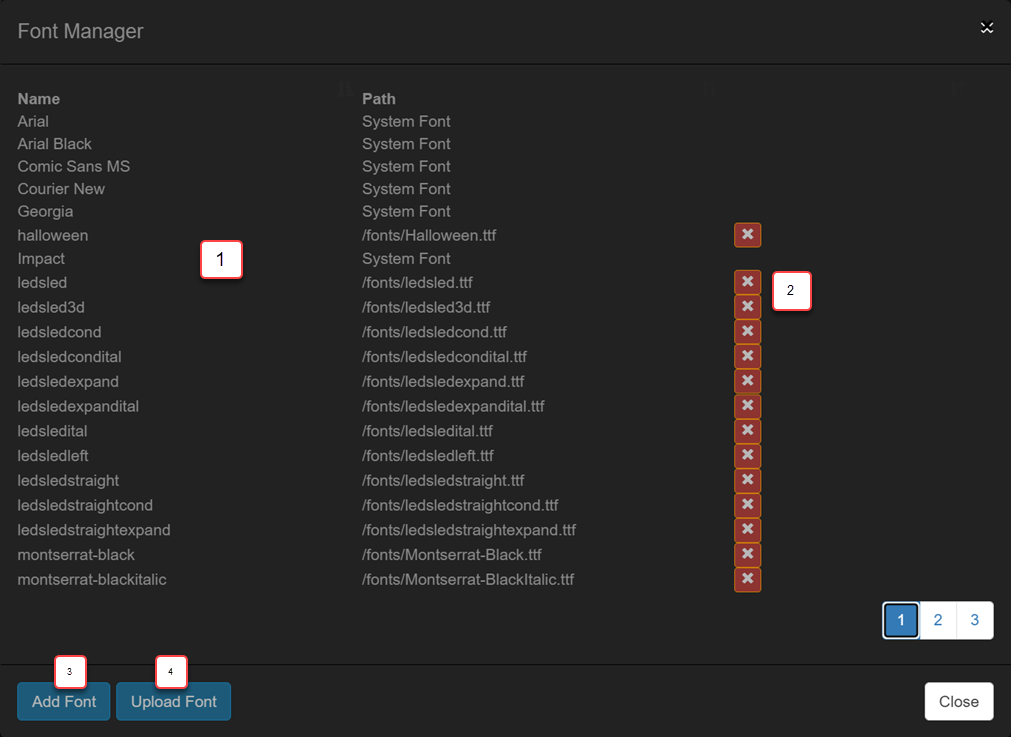
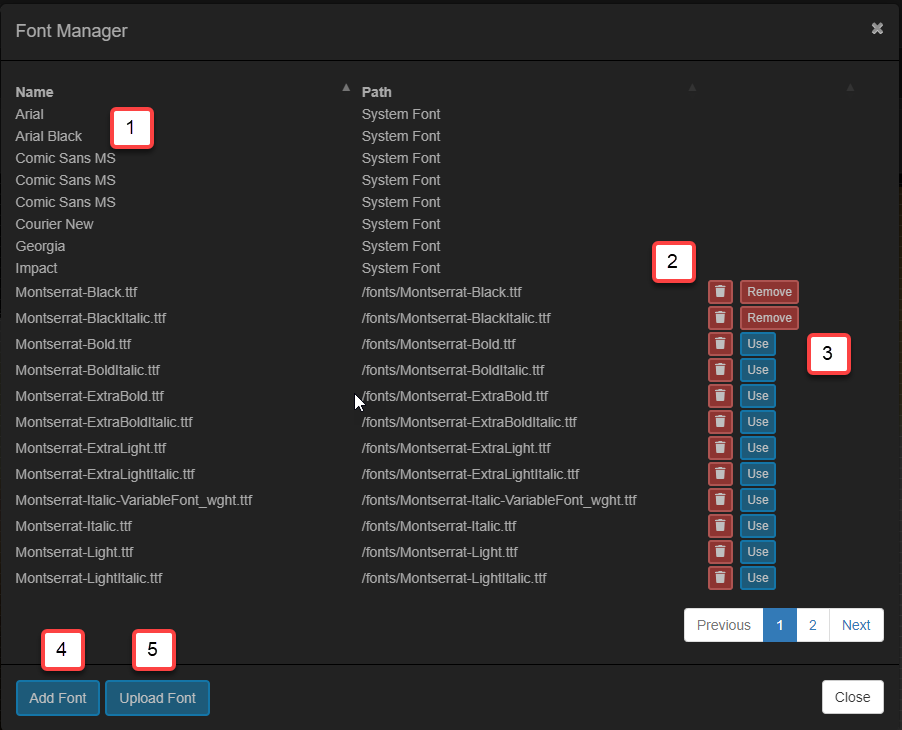
Doc updates

diff --git a/html/documentation/overlays/overlays.html b/html/documentation/overlays/overlays.html
@@ -1293,35 +1293,36 @@
 								</tr>
 								<tr>
 									<td>
-										<ul>
-											<li><span class="moduleToolbarIconNumber">1</span>
-												<strong>Installed Fonts</strong> - Lists all the fonts that can be
-												used.
-												System Fonts are marked as such in the <strong>Path</strong> column.
-											</li>
-											<li><span class="moduleToolbarIconNumber">2</span>
-												<strong>Delete Button</strong> - Deletes a font.
-												<blockquote>It is not possible to delete a System Font and they
-													will not have a delete icon as shown for the first several fonts
-													above.
-												</blockquote>
-												<blockquote>If a font is in use when deleted then any
-													fields using the font will revert to the default font as
-													specified in the overlay settings.
-												</blockquote>
-											</li>
-											<li><span class="moduleToolbarIconNumber">3</span>
-												The <span class="btn btn-primary btn-small">Add Font</span>
-												button adds a font from
-												<a external="true" href="https://daFont.com">daFont.com</a> by entering a URL.
-												See <a href="#dafont">below</a>.
-											</li>
-											<li><span class="moduleToolbarIconNumber">4</span>
-												The <span class="btn btn-primary btn-small">Upload Font</span> button
-												uploads a zip file to install fonts.
-												See <a href="#zip">below</a>.
-											</li>
-										</ul>
+
+										<p><span class="moduleToolbarIconNumber">1</span>
+											<strong>Installed Fonts</strong> - Lists all the fonts that can be used. System Fonts are marked as such in the <strong>Path</strong> column.
+										</p>
+										<p><span class="moduleToolbarIconNumber">2</span>
+											<strong>Delete Button</strong> - Deletes a font.
+											<blockquote>It is not possible to delete a System Font and they
+												will not have a delete icon as shown for the first several fonts
+												above.
+											</blockquote>
+											<blockquote>If a font is in use when deleted then any
+												fields using the font will revert to the default font as
+												specified in the overlay settings.
+											</blockquote>
+										</p>
+										<p><span class="moduleToolbarIconNumber">3</span>
+											<strong>Use/Delete Button</strong> - Enables the font for use in this overlay or removes it from the overlay
+										</p>								
+										<p><span class="moduleToolbarIconNumber">4</span>
+											The <span class="btn btn-primary btn-small">Add Font</span>
+											button adds a font from
+											<a external="true" href="https://daFont.com">daFont.com</a> by entering a URL.
+											See <a href="#dafont">below</a>.
+										</p>
+										<p><span class="moduleToolbarIconNumber">5</span>
+											The <span class="btn btn-primary btn-small">Upload Font</span> button
+											uploads a zip file to install fonts.
+											See <a href="#zip">below</a>.
+										</p>
+
 									</td>
 								</tr>
 							</tbody>
@@ -1359,8 +1360,7 @@
 								By default this is 2 MB which may be too small for some font zip
 								files</p>
 								<p>The php configuration file is normally
-								<span class="fileName">/etc/php/7.3/cgi/php.ini</span>.
-								Edit this file and locate the line containing
+								<span class="fileName">/etc/php/8.2/cgi/php.ini</span> but will vary depending upon the version of php you have install. Edit this file and locate the line containing
 								<code>upload_max_filesize =</code> and change the value.
 								So if the exiting line says
 								<code>upload_max_filesize = 2MB</code> change it to
